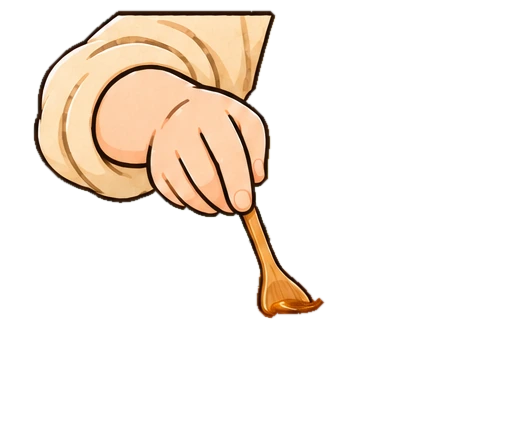
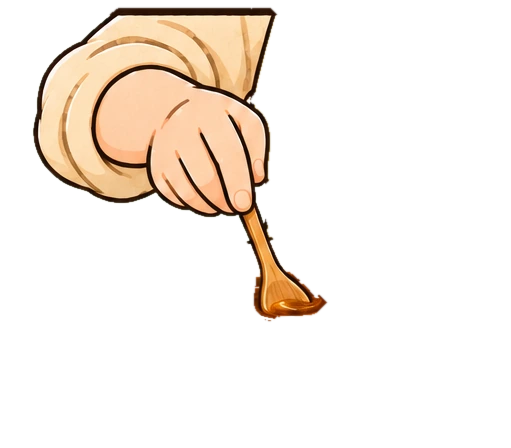
Panel performances: trigger on real on-screen state, readable chop and stir
- Trigger (useStage): plays once the panel's entrance has finished and it is
  >= 90% visible, measured from the layout (also right on phones where the
  column pans); runs in real time, so it completes when scrolling stops.
  Stops (to a steady end pose) when the panel starts leaving or drops below
  60% visible; resets only below 12% visible or before the entrance, so edge
  wiggles never retrigger, and re-entry from either side follows the same rule.
- Chop: lift-dominant raise (-6 deg, 11% of panel height up, slightly left),
  tip rises in front of the guiding knuckles and lands back on the board;
  three cuts ~0.64 s apart, chopHit on the contact frame; the static panel's
  sound-only path uses the same constants.
- Sauce: hand and spoon circle ~10 px twice inside the bowl, sauce highlights
  follow and settle; no repeat. Arm backing refilled from non-outline pixels
  with normalized convolution, so the exposed edge is smooth apron and wall
  instead of radial streaks.
- Stir-fry: still only the two falling kernels; the spatula and hand could not
  be separated cleanly (needs the requested layers).
- Verified headless at 1440x900 and 390x844: enter, 5 s hold, leave, re-enter.

diff --git a/src/app/preview/visual/PanelPerf.tsx b/src/app/preview/visual/PanelPerf.tsx
@@ -16,7 +16,10 @@ import { KITCHEN_ONESHOT_EVENT } from "@/components/kitchen/useKitchenAudio";
 import type { PanelSlot } from "./slots";
 
 type Place = { x: number; y: number; w: number };
-const START = 0.36, RESET = 0.3, LEAVE = 0.72;
+/** 格子在屏幕上的状态（ComicLayer 按布局算）：可见比例、入场是否结束、是否开始离场 */
+export type Stage = { vis: number; entered: boolean; leaving: boolean };
+/** 可见 ≥ 90% 且入场结束才开始；可见 < 60% 或开始离场就收住；几乎看不见（< 12%）或退回入场前才复位，下次进入再播 */
+const READY_VIS = 0.9, LEAVE_VIS = 0.6, GONE_VIS = 0.12, BEFORE_Q = 0.2;
 const P = "/assets/comic-v3/perf/";
 
 export function usePerfEnabled() {
@@ -36,69 +39,72 @@ const flag = (on: boolean) => {
 };
 
 /**
- * 越过 START 时触发一次；q < RESET 时复位；q > LEAVE 时收住。
- * - 首次挂载时若格子已经稳定在 [START, LEAVE)（刷新或快速跳到中段）也播一次；
- * - 关掉表演（减少动态效果 / ?perf=0）时立即收住，避免分离的时间轴继续派发落刀声；
- * - 卸载时收住（离场、回滚出可见范围），重新进入是新实例，重新判断。
+ * 统一播放规则：滚动只负责格子的进入、停留、离场；格内动作在格子"真的在阅读位置"时按真实时间播一小段，然后停稳。
+ * - 开始：入场结束且可见 ≥ 90%（不看段内进度，所以竖屏整列上移、屏幕外都不会提前播）；停止滚动也照样播完。
+ * - 收住：开始离场或可见 < 60%，交给各格的 stop()（落到稳定的终态）。
+ * - 复位：几乎看不见（< 12%）或退回入场之前；之后再次满足开始条件就再播一次（从前面、从后面重新进入规则一样）。
+ *   在边缘来回滚动不会反复触发：播过之后，没有离开到复位线以外就不会再播。
+ * - 关掉表演（减少动态效果 / ?perf=0）时立即复位；卸载时复位。
  */
-function useCrossing(q: number, enabled: boolean, play: () => void, stop: () => void, reset: () => void) {
-  const prev = useRef<number | null>(null);
+function useStage(q: number, stage: Stage, enabled: boolean, play: () => void, stop: () => void, reset: () => void) {
   const played = useRef(false);
   const wasEnabled = useRef(enabled);
   useEffect(() => {
-    const pq = prev.current;
-    prev.current = q;
     if (!enabled) {
       if (wasEnabled.current) { wasEnabled.current = false; played.current = false; reset(); }
       return;
     }
     wasEnabled.current = true;
-    if (q < RESET) { if (played.current) { played.current = false; reset(); } return; }
-    if (q > LEAVE) { stop(); return; }
-    const crossed = pq !== null && pq < START && q >= START;
-    const landedInside = pq === null && q >= START;
-    if ((crossed || landedInside) && !played.current) { played.current = true; play(); }
+    if (stage.vis < GONE_VIS || (q < BEFORE_Q && !stage.entered)) { if (played.current) { played.current = false; reset(); } return; }
+    if (stage.leaving || stage.vis < LEAVE_VIS) { stop(); return; }
+    if (stage.entered && stage.vis >= READY_VIS && !played.current) { played.current = true; play(); }
   });
   useEffect(() => () => { reset(); }, []); // eslint-disable-line react-hooks/exhaustive-deps
 }
 
-export function ChopPanel({ p, pos, dy, q, animate }: { p: PanelSlot; pos: Place; dy: number; q: number; animate: boolean }) {
+/** 切菜动作参数（秒 / 百分比）。抬刀约为格高的 11%（正常桌面大小约 30 屏幕像素） */
+const CHOP = { delay: 0.35, cuts: 3, raise: 0.22, pause: 0.06, drop: 0.09, recoil: 0.05, settle: 0.1, gap: 0.12, lift: { rot: -6, x: -4, y: -11 } };
+export function ChopPanel({ p, pos, dy, q, stage, animate }: { p: PanelSlot; pos: Place; dy: number; q: number; stage: Stage; animate: boolean }) {
   const arm = useRef<HTMLImageElement>(null);
   const tl = useRef<gsap.core.Timeline | null>(null);
   /** 硬复位：卸载、回滚到进入前、关掉表演 */
-  const reset = () => { tl.current?.kill(); tl.current = null; if (arm.current) gsap.set(arm.current, { rotation: 0, yPercent: 0 }); flag(false); };
+  const reset = () => { tl.current?.kill(); tl.current = null; if (arm.current) gsap.set(arm.current, { rotation: 0, xPercent: 0, yPercent: 0 }); flag(false); };
   /** 格子开始离开：停掉后续刀数，刀若在半空就 0.15 秒缓落回原位（不发声），不瞬移 */
   const stop = () => {
     if (!tl.current) return;
     tl.current.kill();
     tl.current = null;
-    if (arm.current) gsap.to(arm.current, { rotation: 0, yPercent: 0, duration: 0.15, ease: "power1.out", overwrite: true });
+    if (arm.current) gsap.to(arm.current, { rotation: 0, xPercent: 0, yPercent: 0, duration: 0.15, ease: "power1.out", overwrite: true });
     flag(false);
   };
   const play = () => {
     const el = arm.current;
     reset();
     const contact = () => window.dispatchEvent(new CustomEvent(KITCHEN_ONESHOT_EVENT, { detail: { sound: "chopHit" } }));
+    const C = CHOP;
+    const firstContact = C.delay + C.raise + C.pause + C.drop;
+    const every = C.raise + C.pause + C.drop + C.recoil + C.settle + C.gap;
     if (!animate || !el) {
-      // 静态格（减少动态效果 / ?perf=0）：画面不动，刀声按同样的节奏响三下（切菜循环已撤，否则这一段没有刀声）
-      const t = gsap.timeline({ delay: 0.3 + 0.295, onComplete: () => { tl.current = null; } });
-      t.call(contact).call(contact, [], "+=0.58").call(contact, [], "+=0.58");
+      // 静态格（减少动态效果 / ?perf=0）：画面不动，刀声按和动画完全相同的时刻响三下
+      const t = gsap.timeline({ delay: firstContact, onComplete: () => { tl.current = null; } });
+      t.call(contact).call(contact, [], `+=${every}`).call(contact, [], `+=${every}`);
       tl.current = t;
       return;
     }
     flag(true);
-    const t = gsap.timeline({ delay: 0.3, onComplete: () => { tl.current = null; flag(false); } });
-    for (let i = 0; i < 3; i++) {
-      t.to(el, { rotation: -9, yPercent: -3, duration: 0.17, ease: "power2.out" }) // 抬刀（绕袖口）
-        .to(el, { rotation: 0, yPercent: 0, duration: 0.075, ease: "power3.in" }, "+=0.05") // 停一下再落刀
-        .call(contact) // 刀刃接触食材：落刀声
-        .to(el, { rotation: 0.8, duration: 0.035, ease: "power1.out" }) // 接触的反作用
-        .to(el, { rotation: 0, duration: 0.09, ease: "power1.inOut" });
-      if (i < 2) t.to({}, { duration: 0.16 });
+    const t = gsap.timeline({ delay: C.delay, onComplete: () => { tl.current = null; flag(false); } });
+    for (let i = 0; i < C.cuts; i++) {
+      // 抬刀：以上提为主（刀尖从扶胡萝卜的指节前面抬起），只带一点倾角，正常大小下一眼能看出来
+      t.to(el, { rotation: C.lift.rot, xPercent: C.lift.x, yPercent: C.lift.y, duration: C.raise, ease: "power2.out" })
+        .to(el, { rotation: 0, xPercent: 0, yPercent: 0, duration: C.drop, ease: "power3.in" }, `+=${C.pause}`) // 停一下再落刀
+        .call(contact) // 刀刃落到砧板、切到胡萝卜的那一帧：落刀声
+        .to(el, { yPercent: 0.8, rotation: 0.6, duration: C.recoil, ease: "power1.out" }) // 接触的反作用
+        .to(el, { yPercent: 0, rotation: 0, duration: C.settle, ease: "power1.inOut" });
+      if (i < C.cuts - 1) t.to({}, { duration: C.gap });
     }
     tl.current = t;
   };
-  useCrossing(q, true, play, stop, reset); // 静态格也走同一套越过 / 复位逻辑（只放刀声）
+  useStage(q, stage, true, play, stop, reset); // 静态格也走同一套越过 / 复位逻辑（只放刀声）
   if (!animate) return <StaticImg src={p.src!} pos={pos} aspect={p.aspect} dy={dy} />;
   return (
     <div className="absolute will-change-transform" style={boxStyle(pos, p.aspect, dy)}>
@@ -115,7 +121,7 @@ export function ChopPanel({ p, pos, dy, q, animate }: { p: PanelSlot; pos: Place
   );
 }
 
-export function HearPanel({ p, pos, dy, q, animate }: { p: PanelSlot; pos: Place; dy: number; q: number; animate: boolean }) {
+export function HearPanel({ p, pos, dy, q, stage, animate }: { p: PanelSlot; pos: Place; dy: number; q: number; stage: Stage; animate: boolean }) {
   const eyes = useRef<HTMLImageElement>(null);
   const puzz = useRef<HTMLImageElement>(null);
   const timers = useRef<number[]>([]);
@@ -137,7 +143,7 @@ export function HearPanel({ p, pos, dy, q, animate }: { p: PanelSlot; pos: Place
   // 否则停在"抬眼"半途，回滚回来也一直是半截表情。已播完时什么都不做。
   const stop = () => { if (timers.current.length) { clear(); show(2); } };
   const reset = () => { clear(); show(0); };
-  useCrossing(q, animate, play, stop, reset);
+  useStage(q, stage, animate, play, stop, reset);
   if (!animate) return <StaticImg src={p.src!} pos={pos} aspect={p.aspect} dy={dy} />;
   return (
     <div className="absolute will-change-transform" style={boxStyle(pos, p.aspect, dy)}>
@@ -162,7 +168,7 @@ const CORNS = [
   { src: "p2d-corn1", pile: 75.6, fall: 17.5 }, // 原位置顶边 59% / 底边 73.4%
   { src: "p2d-corn3", pile: 79.6, fall: 15 }, // 原位置顶边 65.7% / 底边 79.2%
 ] as const;
-export function StirfryPanel({ p, pos, dy, q, animate }: { p: PanelSlot; pos: Place; dy: number; q: number; animate: boolean }) {
+export function StirfryPanel({ p, pos, dy, q, stage, animate }: { p: PanelSlot; pos: Place; dy: number; q: number; stage: Stage; animate: boolean }) {
   const corns = useRef<(HTMLImageElement | null)[]>([]);
   const tl = useRef<gsap.core.Timeline | null>(null);
   const els = () => corns.current.filter(Boolean) as HTMLImageElement[];
@@ -189,7 +195,7 @@ export function StirfryPanel({ p, pos, dy, q, animate }: { p: PanelSlot; pos: Pl
     drop(1.25, -6); // 第二批：从铲边稍高处出现
     tl.current = t;
   };
-  useCrossing(q, animate, play, stop, reset);
+  useStage(q, stage, animate, play, stop, reset);
   if (!animate) return <StaticImg src={p.src!} pos={pos} aspect={p.aspect} dy={dy} />;
   return (
     <div className="absolute will-change-transform" style={boxStyle(pos, p.aspect, dy)}>
@@ -207,12 +213,12 @@ export function StirfryPanel({ p, pos, dy, q, animate }: { p: PanelSlot; pos: Pl
 }
 
 /**
- * 调酱汁格 p3a：手臂 + 勺子单独成层，画三个约 3px 的小圈（底图在手臂边缘向内补了手臂外的颜色，只会露出约 3px 的一条）；
+ * 调酱汁格 p3a：手臂 + 勺子单独成层；
  * 酱面高光细线单独成层，在椭圆里沿酱面转动（先拉成圆、转、再压回椭圆），裁在酱面遮罩里，不露边。
- * 搅三圈后酱面带着余势再转一点停住；停 4.5 秒后若还在这一格，再搅两圈（只重复一次）。碗、扶碗的手、瓶子不动。
+ * 手和勺子一起画两个约 10px 的圈（底图里手臂背后用周围非描边颜色平滑补过），酱面带着余势再转一点后停稳；不重复。碗、扶碗的手、瓶子不动。
  */
-const SAUCE = { cx: 290 / 511, cy: 300 / 448, k: 27 / 88, r: 3 / 511, ry: 1.2 / 448 };
-export function SaucePanel({ p, pos, dy, q, animate }: { p: PanelSlot; pos: Place; dy: number; q: number; animate: boolean }) {
+const SAUCE = { cx: 290 / 511, cy: 300 / 448, k: 27 / 88, r: 10 / 511, ry: 4 / 448 };
+export function SaucePanel({ p, pos, dy, q, stage, animate }: { p: PanelSlot; pos: Place; dy: number; q: number; stage: Stage; animate: boolean }) {
   const arm = useRef<HTMLImageElement>(null);
   const swirl = useRef<HTMLImageElement>(null);
   const tl = useRef<gsap.core.Timeline | null>(null);
@@ -236,16 +242,12 @@ export function SaucePanel({ p, pos, dy, q, animate }: { p: PanelSlot; pos: Plac
     const o = st.current;
     const turn = 2 * Math.PI;
     const t = gsap.timeline({ delay: 0.3, onUpdate: apply, onComplete: () => { tl.current = null; flag(false); } });
-    t.to(o, { a: 3 * turn, duration: 2.1, ease: "sine.inOut" }) // 搅三圈
-      .to(o, { rot: 100, duration: 2.1, ease: "sine.inOut" }, "<") // 酱面跟着转
-      .to(o, { rot: 118, duration: 0.7, ease: "power2.out" }) // 余势
-      .call(() => flag(false))
-      .to(o, { a: 5 * turn, duration: 1.4, ease: "sine.inOut", onStart: () => flag(true) }, "+=4.5") // 停一下，再搅两圈（只这一次）
-      .to(o, { rot: 190, duration: 1.4, ease: "sine.inOut" }, "<")
-      .to(o, { rot: 202, duration: 0.6, ease: "power2.out" });
+    t.to(o, { a: 2 * turn, duration: 1.9, ease: "sine.inOut" }) // 握勺的手和勺子一起在碗里搅两圈（勺头一直在碗里）
+      .to(o, { rot: 140, duration: 1.9, ease: "sine.inOut" }, "<") // 酱面跟着转
+      .to(o, { rot: 156, duration: 0.7, ease: "power2.out" }); // 余势，然后停稳
     tl.current = t;
   };
-  useCrossing(q, animate, play, stop, reset);
+  useStage(q, stage, animate, play, stop, reset);
   if (!animate) return <StaticImg src={p.src!} pos={pos} aspect={p.aspect} dy={dy} />;
   const origin = `${SAUCE.cx * 100}% ${SAUCE.cy * 100}%`;
   return (

diff --git a/src/app/preview/visual/ComicLayer.tsx b/src/app/preview/visual/ComicLayer.tsx
@@ -285,10 +285,13 @@ function FlowLayer() {
         let dy = -panNow;
         if (q < s1) dy = enterOff * (1 - outCubic((q - s0) / (s1 - s0)));
         else if (q > e0) dy = -pan - exitOff * inQuad((q - e0) / (e1 - e0));
-        if (p.key === "p2b") return <ChopPanel key={p.key} p={p} pos={pos} dy={dy} q={q} animate={perf} />;
-        if (p.key === "p3d") return <HearPanel key={p.key} p={p} pos={pos} dy={dy} q={q} animate={perf} />;
-        if (p.key === "p2d") return <StirfryPanel key={p.key} p={p} pos={pos} dy={dy} q={q} animate={perf} />;
-        if (p.key === "p3a") return <SaucePanel key={p.key} p={p} pos={pos} dy={dy} q={q} animate={perf} />;
+        // 格内表演的触发看格子在屏幕上的真实状态：入场结束、可见比例、是否开始离场（竖屏整列上移时也成立）
+        const topVh = pos.y + dy;
+        const stage = { vis: clamp01((Math.min(100, topVh + hVh) - Math.max(0, topVh)) / hVh), entered: q >= s1 - 0.02, leaving: q > e0 };
+        if (p.key === "p2b") return <ChopPanel key={p.key} p={p} pos={pos} dy={dy} q={q} stage={stage} animate={perf} />;
+        if (p.key === "p3d") return <HearPanel key={p.key} p={p} pos={pos} dy={dy} q={q} stage={stage} animate={perf} />;
+        if (p.key === "p2d") return <StirfryPanel key={p.key} p={p} pos={pos} dy={dy} q={q} stage={stage} animate={perf} />;
+        if (p.key === "p3a") return <SaucePanel key={p.key} p={p} pos={pos} dy={dy} q={q} stage={stage} animate={perf} />;
         return <FlowPanel key={p.key} p={p} pos={pos} dy={dy} />;
       })}
       <SoundText g={g} index={index} beats={beats} portrait={vp.portrait} aspect={vp.w / vp.h} />

diff --git a/tools/prepare_perf_layers_v2.py b/tools/prepare_perf_layers_v2.py
@@ -97,7 +97,7 @@ open_ = lum > 80
 lab, _ = ndimage.label(open_)
 seeds = [(142, 202), (52, 72), (100, 120), (232, 254), (260, 262), (170, 240)]  # 面板坐标 (y, x)：手、袖、勺
 arm = np.isin(lab, [lab[y, x] for y, x in seeds if lab[y, x] > 0])
-arm = arm | (ndimage.binary_dilation(arm, iterations=4) & ~open_)  # 带上手臂自己的描边
+arm = arm | (ndimage.binary_dilation(arm, iterations=7) & ~open_)  # 带上手臂自己的描边（描边约 5–7px，取够，免得留一圈深色在底图里）
 arm = ndimage.binary_fill_holes(arm)
 save(layer(O3, arm), "p3a-arm")
 
@@ -125,8 +125,22 @@ save(mask_img, "p3a-saucemask")
 # 底图：酱面去掉旋纹；手臂区域用外面最近的颜色填
 b3 = O3.astype(float).copy()
 b3[hi_soft] = smooth[hi_soft]  # 只去掉被搬走的高光，酱面其余保留原样
-idx = ndimage.distance_transform_edt(arm, return_distances=False, return_indices=True)
-b3[arm] = b3[idx[0][arm], idx[1][arm]]
+# 只从"手臂外、而且不是深色描边"的像素取色，用归一化卷积平滑地填（由小到大几个尺度），
+# 不用最近邻：最近邻会在围裙和瓷砖上拉出一道道放射状毛刺，搅动时很显眼。
+invalid = arm | (~open_ & ndimage.binary_dilation(arm, iterations=12))
+valid = (~invalid).astype(float)
+filled = np.zeros_like(b3)
+todo = arm.copy()
+for sigma in (3, 6, 12, 24):
+    wsum = ndimage.gaussian_filter(valid, sigma)
+    for c in range(3):
+        num = ndimage.gaussian_filter(b3[..., c] * valid, sigma)
+        filled[..., c] = np.where(todo & (wsum > 0.02), num / np.maximum(wsum, 1e-6), filled[..., c])
+    todo = todo & ~(wsum > 0.02)
+if todo.any():  # 手臂正中很深的地方（动作再大也露不出来）：最近的已填像素
+    ii = ndimage.distance_transform_edt(todo, return_distances=False, return_indices=True)
+    filled[todo] = filled[ii[0][todo], ii[1][todo]]
+b3[arm] = filled[arm]
 base[..., :3] = b3.clip(0, 255)
 save(base, "p3a-base")
 print("p3a arm px", int(arm.sum()), "sauce px", int(sauce.sum()), "highlight px", int(hi_soft.sum()))

diff --git a/docs/tasks/scroll-motion-demo.md b/docs/tasks/scroll-motion-demo.md
@@ -246,3 +246,18 @@ A、B 到位后可以去掉近景的裁切复用和主格的色块背景；C 不
 11. `ComicLayer.tsx` 加了 p2d / p3a 两行接线（和 p2b / p3d 同一位置）。
 12. 声音：如要"滋啦"和玉米下落严格同步，请 kitchen-audio 把 stirfryIn 加进 EVENT_SOUNDS，并从 audio-map 的 stirfry oneshots 里去掉 at 0.22；我这边再在第一批落锅时派发一次。
 
+### 第六轮：触发时机与可见程度（2026-11-14，用户反馈"手部动作不明显、没在格子到位后才开始"）
+
+先核查（合并最新 main = edbc9c9 后，无头 Chrome，1440×900 和 390×844 手机模拟，慢速连续滚动逐 90ms 取样）：
+- 三格都引用了独立动作层（p2b-arm / p3a-arm + p3a-swirl / p2d-corn1、corn3），没有被完整静态原图盖住。
+- 按连续滚动看，三格都是在格子 100% 可见、位置稳定时开始，没有在屏幕外播完。
+- 真正的问题：① 触发只看段内进度（越过 0.36），停在 0.30–0.36 之间不播、快滚越过 0.72 就被截断；② 幅度太小：切菜只转 9°（刀尖约 10 屏幕像素）、调汁只有 3px、翻炒没有铲子动作。
+
+改动（`PanelPerf.tsx` 的 `useStage`，`ComicLayer.tsx` 把格子的屏幕状态传进来）：
+- 开始：入场结束且可见 ≥ 90%（按布局算真实位置，竖屏整列上移也成立），按真实时间播一小段，停止滚动也照样播完。
+- 收住：开始离场或可见 < 60%，落到稳定终态。
+- 复位：可见 < 12% 或退回入场前；之后再次满足开始条件就再播（从前面、从后面重新进入规则一致）。边缘来回滚不会反复触发。
+- 切菜：抬刀改为以上提为主（转 −6°、上提格高 11%、略向左），刀尖从扶胡萝卜的指节前抬起，落刀压到砧板，三刀，每刀约 0.64 秒，落刀声在接触帧；静态格（减少动态效果）用同一组常数按同样时刻放三声。
+- 调汁：手和勺子一起在碗里画两个约 10px 的圈（勺头一直在碗里），酱面高光跟着转约 156° 后停稳，不再重复。为此重做了手臂背后的补底：取色只用手臂外的非描边像素，平滑填（归一化卷积），露出的地方是平的围裙和墙色，不再有放射状毛刺。
+- 翻炒：仍只有两粒玉米下落。试过从原格拆铲子和手：轮廓能抠出铲面，但铲子侧边、和砧板交叠处、手指进入上框线处都不干净，扫动时露出重影和框线下的空条，所以不做，等用户生成的分层（见 `scroll-motion-demo-asset-requests.md` 第 2 节）。
+
